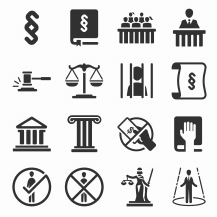
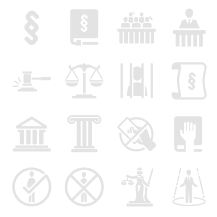
Corrections to last commit

diff --git a/public/stylesheets/styles.css b/public/stylesheets/styles.css
@@ -7,13 +7,7 @@ html {
 body {
   /* Margin bottom by footer height */
   margin-bottom: 60px;
-  background: -moz-linear-gradient(top, rgba(255,255,255, 0.85) 100%, rgba(255,255,255, 0.2) 100%), url("background.png") repeat 0 0;
-  background: -moz-linear-gradient(top, rgba(255,255,255, 0.85) 100%, rgba(255,255,255,0.2) 100%), url("background.png") repeat 0 0;
-  background: -webkit-gradient(linear, left top, left bottom, color-stop(100%,rgba(255,255,255,0.2)), color-stop(100%,rgba(255,255,255,0.85))), url("background.png") repeat 0 0;
-  background: -webkit-linear-gradient(top, rgba(255,255,255, 0.85) 100%,rgba(255,255,255,0.2) 100%), url("background.png") repeat 0 0;
-  background: -o-linear-gradient(top, rgba(255,255,255, 0.85) 100%,rgba(255,255,255,0.2) 100%), url("background.png") repeat 0 0;
-  background: -ms-linear-gradient(top, rgba(255,255,255, 0.85) 100%,rgba(255,255,255,0.2) 100%), url("background.png") repeat 0 0;
-  background: linear-gradient(to bottom, rgba(255,255,255, 0.85) 100%,rgba(255,255,255,0.2) 100%), url("background.png") repeat 0 0;
+  background: url("../background.png") repeat 0 0;
   background-size: 150px;
 }
 .under-menu {
@@ -53,7 +47,7 @@ body > .container {
 }
 
 div.logo {
-  background: url("logo.png") no-repeat 10px 5px;
+  background: url("../logo.png") no-repeat 10px 5px;
   background-size: 35px;
   width: 55px;
   height: 45px;
